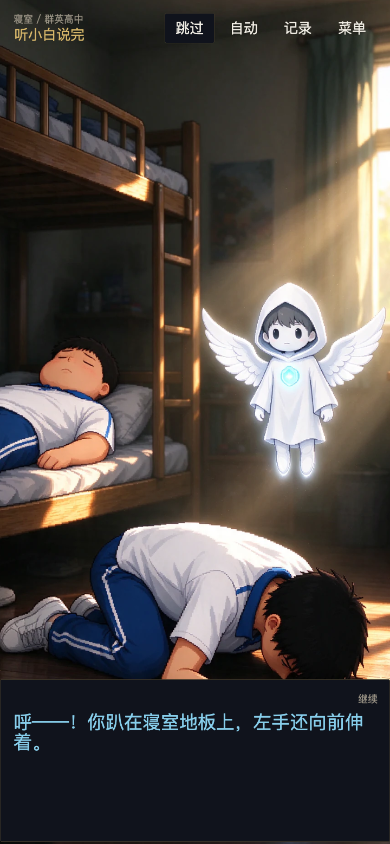
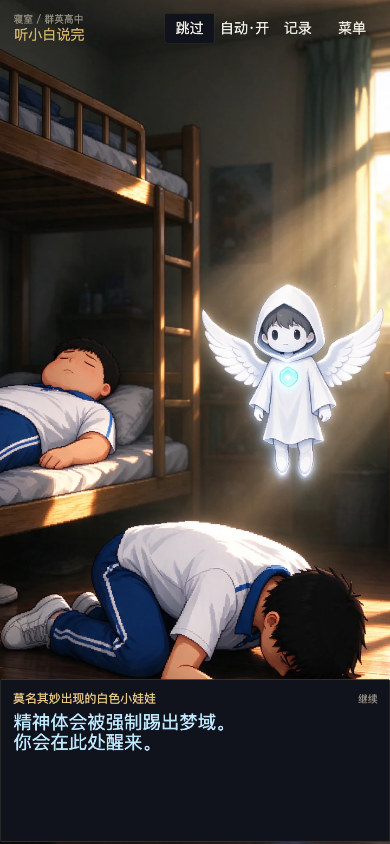
feat(ui): 对话长句按标点折行，避免第二行只剩句号
- balanceDialogueLine 在接近 18 字的标点后换行，避头尾；默认关闭，地图对话显式开启
- 补单测；更新对话/寝室验收截图与 171 tests

(cherry picked from commit cb92eceb8d3a1442a30a936d83832e15e4170fb7)

diff --git a/src/story/dialogue-player.ts b/src/story/dialogue-player.ts
@@ -1,5 +1,6 @@
 import {
   DIALOGUE_TYPE_MS,
+  balanceDialogueLine,
   charsOf,
   maskDialogueText,
   type DialogueLine,
@@ -96,6 +97,8 @@ export class DialoguePlayer {
   private readonly typeMs: number;
   /** 每页最多显示的字符数；`0` = 不分页（一整句一页）。 */
   private readonly pageChars: number;
+  /** 是否在显示层按标点折行，避免第二行只剩标点。 */
+  private readonly balanceLines: boolean;
   private lineIndex = -1;
   private pageIndex = 0;
   private pages: readonly string[] = [];
@@ -104,7 +107,10 @@ export class DialoguePlayer {
   private accumulator = 0;
   private started = false;
 
-  constructor(lines: readonly DialogueLine[], options: { typeMs?: number; pageChars?: number } = {}) {
+  constructor(
+    lines: readonly DialogueLine[],
+    options: { typeMs?: number; pageChars?: number; balanceLines?: boolean } = {},
+  ) {
     this.lines = lines;
     // `typeMs: 0` 是显式「整句立即显示」；省略或负数才回退默认值。
     this.typeMs =
@@ -116,6 +122,7 @@ export class DialoguePlayer {
     this.pageChars = Number.isFinite(options.pageChars) && (options.pageChars ?? 0) > 0
       ? Math.trunc(options.pageChars as number)
       : 0;
+    this.balanceLines = options.balanceLines === true;
   }
 
   get state(): DialogueState {
@@ -208,7 +215,9 @@ export class DialoguePlayer {
       return [{ type: 'complete' }];
     }
 
-    this.pages = paginateText(line.text, this.pageChars);
+    this.pages = paginateText(line.text, this.pageChars).map((page) =>
+      this.balanceLines ? balanceDialogueLine(page) : page,
+    );
     this.pageIndex = 0;
     const total = charsOf(this.pageText).length;
     const instant = this.typeMs <= 0;

diff --git a/src/story/dialogue.ts b/src/story/dialogue.ts
@@ -101,3 +101,37 @@ export function speakerLabel(speaker?: string): string {
   const name = (speaker ?? '').trim();
   return name === '旁白' ? '' : name;
 }
+
+
+/**
+ * 把一行过长的对话按标点折成两行，避免最后一行只剩一个「。」。
+ *
+ * 面板宽 628、字号 34，一行约 18 个汉字；Phaser 的自动换行会在任意字处断，
+ * 21 字的句子常把句号单独挤到第二行。这里在接近 18 字的标点后手动换行，
+ * 第二行至少带走一个词。**只在显式开启时使用**，不改变 `paginateText` 的字数语义。
+ */
+export function balanceDialogueLine(text: string, maxChars = 18): string {
+  const chars = charsOf(text);
+  if (chars.length <= maxChars || text.includes('\n')) return text;
+  const BREAKS = new Set(['。', '！', '？', '；', '，', '、', '…', '—']);
+  let cut = -1;
+  let best = Number.POSITIVE_INFINITY;
+  const limit = Math.min(chars.length - 1, maxChars + 6);
+  for (let index = 1; index <= limit; index += 1) {
+    if (!BREAKS.has(chars[index - 1] as string)) continue;
+    const distance = Math.abs(index - maxChars);
+    if (distance < best) {
+      best = distance;
+      cut = index;
+    }
+  }
+  if (cut <= 0 || cut >= chars.length) cut = Math.min(maxChars, chars.length - 1);
+  const head = chars.slice(0, cut);
+  const tail = chars.slice(cut);
+  // 不让第二行以标点开头（避头尾）：把尾部的标点挪回第一行。
+  while (tail.length > 0 && BREAKS.has(tail[0] as string)) {
+    head.push(tail.shift() as string);
+  }
+  if (head.length === 0 || tail.length === 0) return text;
+  return `${head.join('')}\n${tail.join('')}`;
+}

diff --git a/test/dialogue-player.test.ts b/test/dialogue-player.test.ts
@@ -1,5 +1,10 @@
 import { describe, expect, it } from 'vitest';
-import { DIALOGUE_TYPE_MS, maskDialogueText, type DialogueLine } from '../src/story/dialogue';
+import {
+  DIALOGUE_TYPE_MS,
+  balanceDialogueLine,
+  maskDialogueText,
+  type DialogueLine,
+} from '../src/story/dialogue';
 import { DialoguePlayer, paginateText } from '../src/story/dialogue-player';
 
 const lines: readonly DialogueLine[] = [
@@ -166,6 +171,22 @@ describe('DialoguePlayer', () => {
       expect(masked.split('\n')).toHaveLength(2);
       expect(Array.from(masked)).toHaveLength(Array.from(full).length);
     }
+  });
+
+  it('balanceDialogueLine 在标点处折行，避免第二行只剩标点', () => {
+    const text = '精神体会被强制踢出梦域。你会在此处醒来';
+    const balanced = balanceDialogueLine(text);
+    const lines = balanced.split('\n');
+    expect(lines).toHaveLength(2);
+    expect(lines[0]?.endsWith('。')).toBe(true);
+    expect((lines[1] ?? '').length).toBeGreaterThan(1);
+    expect(lines.join('')).toBe(text);
+
+    expect(balanceDialogueLine('短句。')).toBe('短句。');
+    expect(balanceDialogueLine('第一行\n第二行')).toBe('第一行\n第二行');
+    // 没有标点也能硬折，且不丢字
+    const long = '一二三四五六七八九十一二三四五六七八九十';
+    expect(balanceDialogueLine(long).split('\n').join('')).toBe(long);
   });
 
   it('typeMs=0 立即显示整句，但仍要手动推进与分页', () => {

diff --git a/src/scenes/ch01-dorm-scene.ts b/src/scenes/ch01-dorm-scene.ts
@@ -733,6 +733,7 @@ export class Ch01DormScene extends UIScene {
      */
     this.dialogue = new DialoguePlayer(lines, {
       pageChars: DIALOGUE_PAGE_CHARS,
+      balanceLines: true,
       typeMs: Math.round(DIALOGUE_TYPE_MS * textSpeedFactor(settings.textSpeed)),
     });
     this.dialogueVisible.value = true;

diff --git a/docs/CH01-ACCEPTANCE.md b/docs/CH01-ACCEPTANCE.md
@@ -165,7 +165,7 @@
 | 项 | 结果 |
 | --- | --- |
 | `pnpm typecheck` | 通过 |
-| `pnpm test` | 通过，170 tests / 20 files |
+| `pnpm test` | 通过，171 tests / 20 files |
 | `pnpm assets:check` | 通过，118 key / 118 url；`assets:pass` 通过（可走格 509 / 1782） |
 | `pnpm build` | 通过；JS 1,860.97 kB / gzip 513.40 kB（优化前 1,767.33 kB / 486.71 kB） |
 
@@ -173,7 +173,7 @@
 
 ### 8.2 界面与系统
 
-1. **HUD 统一**：新增 `src/ui/hud-kit.ts`，寝室/金殿/战斗共用顶部信息条与 672×300 对话面板；旁白按语义色显示（天蓝），说话人按角色分色（周全纸白、郑卿鎏金、小白淡青、矿工朱红），多页显示 `1/2`，右下提示「继续 / 补全 / 点击继续」。
+1. **HUD 统一**：新增 `src/ui/hud-kit.ts`，寝室/金殿/战斗共用顶部信息条与 672×300 对话面板；旁白按语义色显示（天蓝），说话人按角色分色（周全纸白、郑卿鎏金、小白淡青、矿工朱红），多页显示 `1/2`，右下提示「继续 / 补全 / 点击继续」；长句在标点处折行，避免第二行只剩句号。
 2. **对话记录**：最近 80 句，顶栏「记录」打开分页弹窗（每页 8 句），打开时暂停自动播放。
 3. **自动播放 / 文字速度 / 减弱动效**：设置面板新增三项；`instant` 整句立即显示但仍分页；自动播放按字数计算停留；减动效强制关闭位移/抖动/速度线，保留信息层。
 4. **单章节检查点**：`avm.progress.v1`，检查点为 `dorm.explore / dorm.palace / dorm.after / ch01.complete`；标题「继续游戏」亮起并显示「上次：…」；预览模式一律不写盘；「重看本节」把检查点退回寝室探索。
